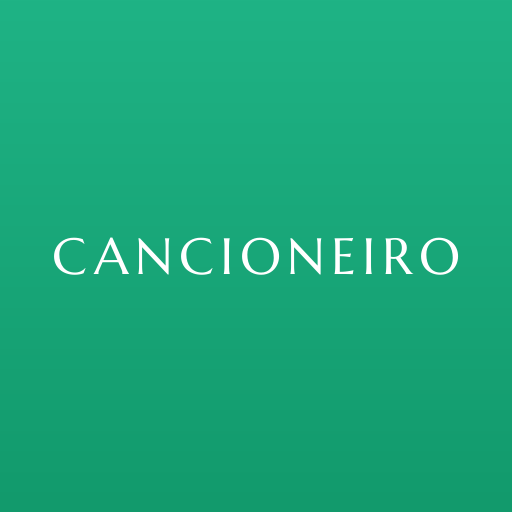
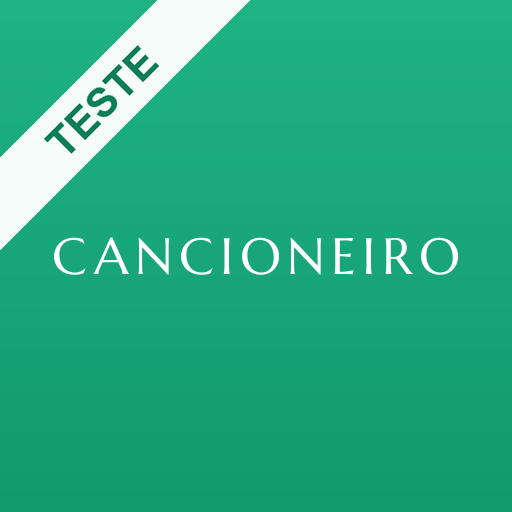
Versão de teste: aviso na capa (1 s depois), no canto da página inicial e faixa TESTE no ícone (v130)

Changed region(s): [[0.0, 0.0, 0.5, 0.5]]

diff --git a/index.html b/index.html
@@ -16,10 +16,10 @@
   <link rel="preconnect" href="https://fonts.googleapis.com">
   <link rel="preconnect" href="https://fonts.gstatic.com" crossorigin>
   <link href="https://fonts.googleapis.com/css2?family=Marcellus&family=Lato:ital,wght@0,300;0,400;0,700;1,300;1,400&display=swap" rel="stylesheet">
-  <link rel="stylesheet" href="styles.css?v=129">
+  <link rel="stylesheet" href="styles.css?v=130">
 </head>
 <body>
-  <div id="splash" class="splash"><h1>CANCIONEIRO</h1></div>
+  <div id="splash" class="splash"><div class="splash-in"><h1>CANCIONEIRO</h1><p class="splash-sub">Versão Teste</p></div></div>
 
   <!-- Entrada (Google) -->
   <section id="view-login" class="view login" hidden>
@@ -41,7 +41,7 @@
       <button class="icon-btn" id="btn-back-list" aria-label="Voltar" hidden>
         <svg viewBox="0 0 24 24"><path d="M15 5l-7 7 7 7"/></svg>
       </button>
-      <span class="topbar-left-spacer" id="topbar-spacer"></span>
+      <span class="topbar-left-spacer" id="topbar-spacer"><span class="test-tag">Versão<br>Teste</span></span>
       <h1 class="brand" id="list-brand"><span>CANCIONEIRO</span></h1>
       <button class="icon-btn perfil-btn" id="btn-perfil" aria-label="Perfil" title="Perfil"><svg viewBox="0 0 24 24" class="perfil-ic"><circle cx="12" cy="12" r="7.5"/></svg><i>i</i></button>
     </header>
@@ -271,7 +271,7 @@
   </dialog>
 
   <script src="https://cdn.jsdelivr.net/npm/@supabase/supabase-js@2.117.2/dist/umd/supabase.js" integrity="sha384-Rj26LVGvoeRVR6+mwQmFfcR3QOBEwT+ZmuCWpuiqeTzJpCs0ER4ITAWGb4Hiy3Ok" crossorigin="anonymous"></script>
-  <script src="config.js?v=129"></script>
-  <script src="app.js?v=129"></script>
+  <script src="config.js?v=130"></script>
+  <script src="app.js?v=130"></script>
 </body>
 </html>

diff --git a/styles.css b/styles.css
@@ -749,3 +749,9 @@ dialog h2 { font-size: 22px; }
 #sa-list small, .tpl-apply small, .col-pick small, .sim-list small, .perfil-opt small { text-transform: none; letter-spacing: 0; }
 input::placeholder, textarea::placeholder { text-transform: uppercase; letter-spacing: .06em; }
 .perfil-admin, .meta a.pdf, .lang-chip, .lang-switch button, .src-chip, .moments, .pdf-more button, .col-pick-new, .pick-top button { text-transform: uppercase; letter-spacing: .05em; }
+/* Versão de teste: aviso na capa e no canto da página inicial */
+.splash-in { display: grid; justify-items: center; gap: 10px; }
+.splash-sub { margin: 0; font-family: var(--serif); font-size: clamp(14px, 4vw, 22px); letter-spacing: .3em; text-transform: uppercase; opacity: 0; animation: splash-sub .6s ease 1s forwards; }
+@keyframes splash-sub { to { opacity: .9; } }
+.topbar-left-spacer { display: grid; place-items: center; }
+.test-tag { font-size: 9.5px; line-height: 1.2; font-weight: 700; letter-spacing: .1em; text-transform: uppercase; text-align: center; color: #fff; opacity: .85; }

diff --git a/app.js b/app.js
@@ -73,7 +73,7 @@
     const i = CATEGORIES.findIndex(c => c.id === 'traducao');
     return [...CATEGORIES.slice(0, i), ...own.map((t, k) => ({ id: 'cat-' + norm(t).replace(/[^a-z0-9]+/g, '-'), head: k === 0 ? 'Outras categorias' : null, tg: ['Categoria', t], label: t, test: s => (s.tags || []).some(x => x.grp === 'Categoria' && x.tag === t) })), ...CATEGORIES.slice(i)];
   };
-  const APP_VERSION = '2026-10-03 v129';
+  const APP_VERSION = '2026-10-03 v130';
   const CACHE_KEY = 'cancioneiro.songs.v2'; // só a lista (sem letras)
   try { localStorage.removeItem('cancioneiro.songs.v1'); } catch (e) {} // versão antiga guardava todas as letras
   const $ = id => document.getElementById(id);

diff --git a/sw.js b/sw.js
@@ -1,5 +1,5 @@
 // Cache da aplicação para funcionar offline (os cânticos ficam em localStorage)
-const CACHE = 'cancioneiro-v129';
+const CACHE = 'cancioneiro-v130';
 const SHELL = ['./', 'index.html', 'styles.css', 'app.js', 'config.js', 'manifest.json', 'worker.js', 'icons/icon-192.png', 'icons/icon-180.png'];
 self.addEventListener('install', e => e.waitUntil(caches.open(CACHE).then(c => c.addAll(SHELL)).then(() => self.skipWaiting())));
 self.addEventListener('activate', e => e.waitUntil(
